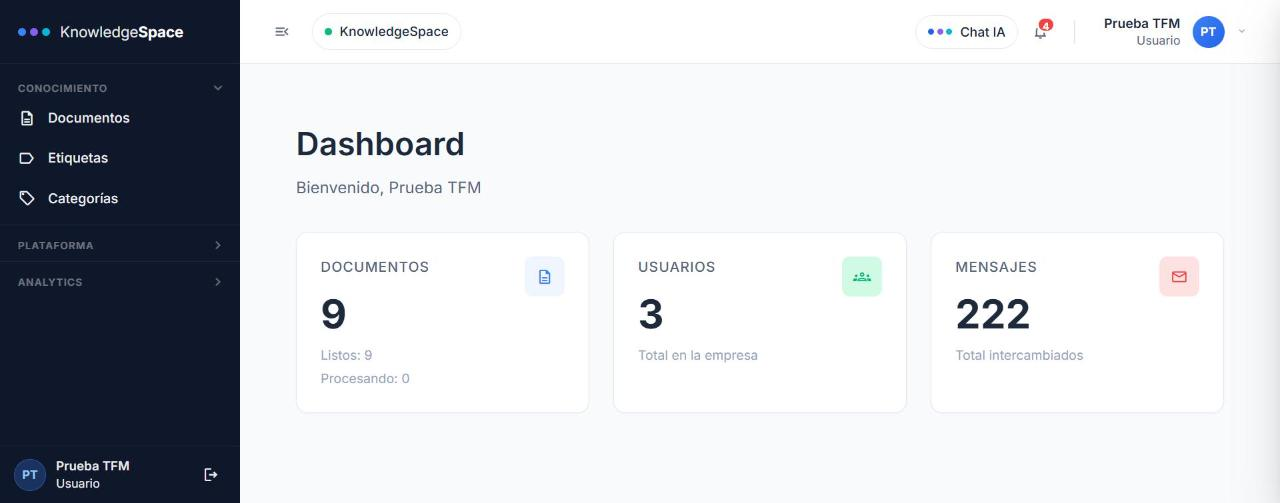
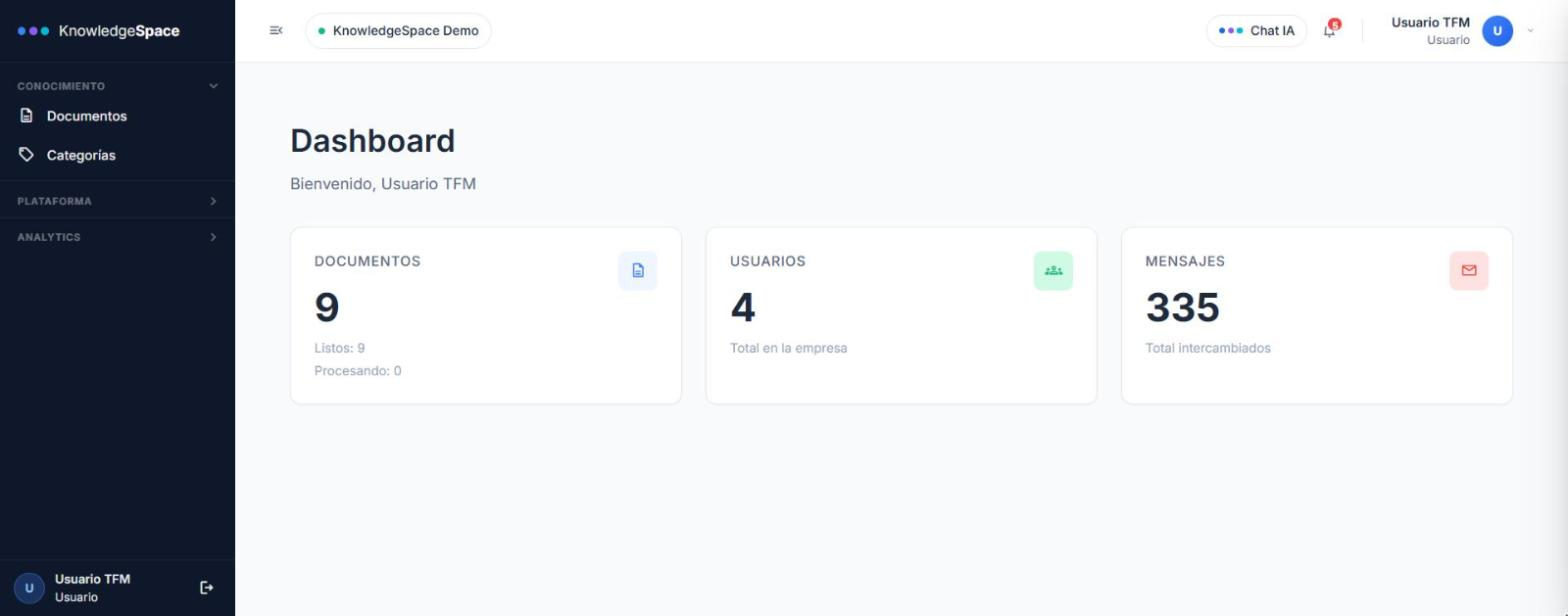
se adiciona archivos q estaban pendientes

diff --git a/src/app/features/chat/pages/chat-detail/chat-detail.component.html b/src/app/features/chat/pages/chat-detail/chat-detail.component.html
@@ -211,12 +211,14 @@
                             <!-- Un chip por fragmento: al pulsarlo se ve su
                                  texto, que es lo que permite comprobar la
                                  cita en el documento original. -->
+                            <!-- Una respuesta escrita a mano no tiene número de
+                                 fragmento: antes salía un «·» que no se entendía. -->
                             @for (f of grupo.fragmentos; track f.chunk_id || f.chunk_index) {
                               <button class="source-chunk"
                                       [class.is-open]="expandedSource() === f"
-                                      [title]="'Ver el fragmento ' + f.chunk_index"
+                                      [title]="f.chunk_index != null ? 'Ver el fragmento ' + f.chunk_index : 'Ver la respuesta escrita'"
                                       (click)="toggleSourcePreview(f)">
-                                {{ f.chunk_index ?? '·' }}
+                                {{ f.chunk_index ?? 'ver texto' }}
                               </button>
                             }
                           </div>
@@ -234,7 +236,7 @@
                     @for (f of grupo.fragmentos; track f.chunk_id || f.chunk_index) {
                       @if (expandedSource() === f) {
                         <div class="source-preview">
-                          <span class="source-preview-tag">Fragmento {{ f.chunk_index }}</span>
+                          <span class="source-preview-tag">{{ f.chunk_index != null ? 'Fragmento ' + f.chunk_index : 'Respuesta escrita' }}</span>
                           <p>{{ f.text }}</p>
                         </div>
                       }

diff --git a/src/app/features/chat/pages/chat-detail/chat-detail.latex.spec.ts b/src/app/features/chat/pages/chat-detail/chat-detail.latex.spec.ts
@@ -1,0 +1,27 @@
+import { describe, expect, it } from 'vitest';
+
+import { ChatDetailComponent } from './chat-detail.component';
+
+// El modelo copia las fórmulas en LaTeX porque así aparecen en los documentos.
+// Los comandos de espaciado (`\,`, `\;`…) no tienen nombre y se colaban
+// literales: la figura 3 de la memoria mostraba `cos \, θ`.
+const ctx = Object.create(ChatDetailComponent.prototype) as ChatDetailComponent;
+const formatear = (texto: string) => ctx.formatMessage(texto);
+
+describe('ChatDetailComponent · LaTeX en las respuestas', () => {
+  it('traduce la fórmula de la similitud coseno sin restos de LaTeX', () => {
+    const html = formatear('cos \\, \\theta = \\frac{x \\cdot y}{||x|| \\cdot ||y||}');
+    expect(html).toBe('cos θ = (x · y) / (‖x‖ · ‖y‖)');
+    expect(html).not.toContain('\\');
+  });
+
+  it('los espacios finos y medios se vuelven un espacio; el negativo desaparece', () => {
+    expect(formatear('a\\;b\\:c\\ d')).toBe('a b c d');
+    expect(formatear('x\\!y')).toBe('xy');
+    expect(formatear('a\\quad b')).toBe('a b');
+  });
+
+  it('no toca una barra que no es LaTeX: el texto sin comandos queda igual', () => {
+    expect(formatear('Hola, ¿qué tal?')).toBe('Hola, ¿qué tal?');
+  });
+});

diff --git a/src/app/features/chat/pages/chat-detail/chat-detail.component.ts b/src/app/features/chat/pages/chat-detail/chat-detail.component.ts
@@ -674,6 +674,12 @@ export class ChatDetailComponent implements OnInit, OnDestroy {
         // el argumento y pierde el comando. Va después de los casos concretos
         // para que aquellos tengan preferencia.
         .replace(/\\[a-zA-Z]+\s*\{([^{}]*)\}/g, '$1')
+        // Espaciado: `\,` `\;` `\:` `\ ` son espacios finos y `\!` uno
+        // negativo. No tienen nombre, así que la regla de símbolos no los
+        // veía y se leía `cos \, θ` (visto en la figura 3 de la memoria).
+        .replace(/\\!/g, '')
+        .replace(/\s*\\[,;: ]\s*/g, ' ')
+        .replace(/\s*\\q?quad\b\s*/g, ' ')
         // Símbolos con nombre.
         .replace(/\\([a-zA-Z]+)/g, (completo, nombre) => SIMBOLOS[nombre] ?? nombre)
         // Dobles barras de la norma: `||x||` → `‖x‖`

diff --git a/src/app/features/assistants/pages/assistant-form/assistant-form.component.ts b/src/app/features/assistants/pages/assistant-form/assistant-form.component.ts
@@ -33,7 +33,8 @@ export class AssistantFormComponent implements OnInit {
   error: string | null = null;
 
   readonly availableModels = MODELS;
-  readonly avatarPresets   = ['🤖', '🧠', '💼', '📚', '🎯', '👔', '⚙', '🔬', '🌐', '💡'];
+  readonly avatarPresets   = ['🤖', '🧠', '💼', '📚', '🎯', '👔', '⚙', '🔬', '🌐', '💡',
+                              '🎓', '🏫', '📘', '💻', '📊'];
 
   name         = '';
   description  = '';

diff --git a/CHANGELOG.md b/CHANGELOG.md
@@ -10,6 +10,101 @@ backend.
 
 ---
 
+## 2026-11-07
+
+### Memoria
+
+- **Figura 2 (4.1) repetida** con la cuenta de rol usuario: el menú ya no
+  muestra «Etiquetas» ni la sección Administración. Con ella, las cuatro
+  figuras de la interfaz que usa la memoria están al día. 59 páginas.
+  Respaldo previo en `docs/Memoria_TFM_respaldo_2026-11-07.docx` (backend).
+- **Portada:** «Trabajo Fin de Máster · KnowledgeSpace · Plataforma
+  multiempresa de asistentes conversacionales basados en generación aumentada
+  por recuperación, con control y evaluación de alucinaciones · MID · EBIS
+  Business Techschool · Autor: Johan Sebastian Agudelo Sierra · Noviembre de
+  2026». Sin tutor. Índice actualizado.
+- **Anexo 10.1:** credenciales de los dos usuarios de demostración (las puso
+  el autor; comprobadas contra el backend local) y fuera los signos ⟨ ⟩. Solo
+  queda el marcador del enlace al vídeo.
+- La memoria queda en **60 páginas**, el máximo de la guía. Respaldo previo en
+  `docs/Memoria_TFM_respaldo_2026-11-07b.docx`.
+- **Estilo menos «de IA» en toda la memoria**, sin cambiar datos ni ideas: 127
+  sustituciones aplicadas con Word para conservar el formato. Rayas de 114 a 2
+  (las de dos celdas vacías de una tabla), «Conviene/Procede…» de 15 a 0,
+  «no es X, sino Y» de 12 a 0, «precisamente», «deliberadamente» y «la
+  distinción» a 0, «resulta» de 17 a 3. 68 palabras menos; sigue en 60
+  páginas. El capítulo 2 no se tocó. Respaldos: `..._2026-11-07c.docx` (antes
+  de empezar) y `..._2026-11-07d.docx` (tras el capítulo 5).
+- **«Ningún enrutador consulta la base de datos» (3.2 y 4.1) volvía a ser
+  falso**: `feedback.py` leía el asistente de un mensaje y `knowledge_gaps.py`
+  los nombres de asistente y documento directamente. Backend: las tres
+  lecturas pasan a sus repositorios (`MessageRepository.assistant_id_of_company`,
+  `AssistantRepository`/`DocumentRepository.get`), sin cambio de
+  comportamiento, y un test nuevo (`test_capas_sin_consultas_en_routers.py`)
+  falla si un enrutador vuelve a leer o escribir la base directamente, salvo
+  `setup.py`; comprobado contra el código anterior. Memoria: la frase nombra
+  esa excepción (el arranque inicial) y las cifras pasan de «doce» y
+  «diecisiete» a once y dieciséis, que cambiaron al retirar Etiquetas. 6.1 a
+  286 pruebas (Aislamiento 57). Corregido de paso un «y que» sobrante que dejó
+  la limpieza de estilo. 60 páginas; respaldo `..._2026-11-07e.docx`.
+- **Portada:** añadido el tutor, Alberto Ruiz Arteaga. 60 páginas; respaldo
+  `..._2026-11-07f.docx`.
+
+### Capturas del manual
+
+- **Todas repetidas** con la interfaz actual (17 de 18), en localhost: la 01
+  sin sesión; 03–13, 15, 16 y 18 con la cuenta de administrador de
+  demostración; 02 y 14 con la de rol usuario (en la 14, dos casillas marcadas
+  para enseñar la selección, sin borrar nada). En la **16 (Usuarios)** la
+  columna de correos va difuminada. Queda la **17 (Empresas)**, que solo ve un
+  superadministrador y que todavía muestra «Etiquetas» y empresas reales.
+
+---
+
+## 2026-11-05
+
+### Memoria
+
+- **6.1 al día:** 285 pruebas en el servidor (antes decía 266) y una frase con
+  las 80 de la interfaz; fila nueva en la tabla, *Manejo de errores, 19*
+  (`test_manejo_de_errores.py` 10 y `test_mensaje_documento_fallido.py` 9); la
+  tabla suma 285.
+- **3.2:** párrafo nuevo sobre el manejador común (503/500, mismo formato, sin
+  detalle técnico, traza en el registro) y el interceptor de la interfaz; el
+  motivo de un documento fallido se muestra traducido; fuera «una de las
+  treinta y cinco pruebas», cifra de cuando había 35.
+- Índice actualizado; 59 páginas en Word y en PDF, 24.819 palabras. Respaldo
+  previo en `docs/Memoria_TFM_respaldo_2026-11-05.docx` (backend, fuera de git).
+- **Figuras 3 y 4 y la de temperatura, repetidas**: las tres mostraban
+  «Etiquetas» en el menú, retirada el 2026-11-02, y la de temperatura, además,
+  a una cuenta de rol usuario editando un asistente, algo que hoy solo puede
+  hacer un administrador. Misma proporción que las anteriores: el maquetado no
+  cambia (59 páginas). Respaldo en `Memoria_TFM_respaldo_2026-11-05b.docx`.
+
+### Chat
+
+- **Restos de LaTeX:** los comandos de espaciado (`\,`, `\;`, `\:`, `\ `,
+  `\!`, `\quad`) no tienen nombre y se colaban literales: la figura 3 de la
+  memoria mostraba `cos \, θ`. Ahora se traducen a un espacio (el negativo
+  desaparece). Test: `chat-detail.latex.spec.ts` (3).
+- **Fuente «Respuesta directa»:** el chip mostraba un «·» que no se entendía;
+  ahora dice «ver texto», y el texto desplegado se titula «Respuesta escrita»
+  en vez de «Fragmento null».
+- Figura 3 de la memoria y captura 08 rehechas con los dos arreglos. Tests:
+  frontend 83.
+
+### Capturas del manual
+
+- **Catorce capturas de `doc/capturas/` repetidas** con la interfaz actual, en
+  localhost y con la cuenta de administrador: 03, 04, 05, 06, 07, 08, 09, 10,
+  11, 12, 13, 14, 15 y 18. Mismos nombres, así que el manual las toma sin
+  cambios. Las de Feedback, Notificaciones y Preguntas sin respuesta enseñan
+  lo de estos días (pregunta resaltada, selección al estilo Gmail, botón
+  Responder). Pendientes: la 02 (necesita la cuenta de rol usuario) y la 16 y
+  la 17 (muestran correos reales).
+
+---
+
 ## 2026-11-04
 
 ### Notificaciones

diff --git a/doc/trabajo/FEATURES.md b/doc/trabajo/FEATURES.md
@@ -151,7 +151,8 @@ trazabilidad de fuentes.
   hay endpoint para borrar un feedback).
 - **Dónde vive:** en un panel lateral (*drawer*) que abre el botón **Chat IA** de la cabecera, desde cualquier módulo. La página completa con lista de conversaciones (`ChatShellComponent`, `ChatListComponent`) se retiró por redundante. La ruta `/chat/:id` se conserva para los enlaces a una conversación concreta (por ejemplo, «Ver conversación» desde Feedback), y `/chat` a secas redirige al dashboard (2026-10-24; antes mostraba el layout en blanco).
 - **Chat Detail** (panel y `/chat/:id`): burbujas de mensaje usuario/asistente con formato markdown básico (negrita, cursiva, código), indicador de "escribiendo…", selector de **Asistente** activo cuando la empresa tiene más de uno configurado, sugerencias de inicio rápido en el estado vacío.
-  - **Fuentes citadas**: cada respuesta lista los documentos consultados con su score de relevancia, permite previsualizar el fragmento exacto usado por el modelo y descargar el documento original (vía URL firmada de S3).
+  - **Fuentes citadas**: cada respuesta lista los documentos consultados con su score de relevancia, permite previsualizar el fragmento exacto usado por el modelo y descargar el documento original (vía URL firmada de S3). Una respuesta escrita en Preguntas sin respuesta aparece como «Respuesta directa», sin descarga y con el chip «ver texto» (2026-11-05; antes mostraba un «·»).
+  - **Fórmulas**: el LaTeX que copia el modelo se traduce a texto legible (`\frac`, símbolos griegos, `\cdot`, normas…) sin motor de fórmulas. Desde el 2026-11-05 cubre también los comandos de espaciado (`\,`, `\;`, `\:`, `\!`, `\quad`), que se colaban literales (`cos \, θ`).
   - **Feedback**: pulgar arriba/abajo por respuesta, con panel de comentario opcional al marcar una respuesta como mejorable (`POST /v1/feedback/`); el estado de feedback ya emitido se restaura al recargar la conversación.
   - **Búsqueda** dentro de los mensajes de la conversación (con resaltado de coincidencias) y **paginación** de mensajes largos.
   - **Streaming** (2026-10-24): la respuesta llega token a token por *Server-Sent Events* (`POST /v1/chat/message/stream`), con un cursor parpadeante al final del texto mientras se sigue escribiendo. `ChatService.sendMessageStream` lee el progreso de descarga de `HttpClient` (no `EventSource`, que solo hace GET) y parsea las líneas SSE a mano, reconstruyendo eventos que puedan llegar partidos entre dos trozos de red. No reduce el tiempo total de la consulta —el RAG hace el mismo trabajo—, reduce la espera hasta el primer token. Copiar, feedback y costo quedan ocultos en la burbuja hasta que la respuesta termina. La ruta síncrona (`sendMessage` / `POST /v1/chat/message`) se conserva sin usarse desde la UI.

diff --git a/README.md b/README.md
@@ -248,5 +248,4 @@ Angular sustituye automáticamente el archivo según la configuración de build 
 - [`CHANGELOG.md`](CHANGELOG.md) — lo hecho cada día, en los dos repositorios
 - [Manejo de errores](https://github.com/jsagudelodev/knowledgespace-tfm-backend/blob/main/docs/TFM/MANEJO_ERRORES.md) — del backend a la pantalla, en los dos repositorios (`docs/TFM/MANEJO_ERRORES.md` del backend)
 - [`doc/trabajo/FEATURES.md`](doc/trabajo/FEATURES.md) — inventario de funcionalidades
-- [`doc/trabajo/BITACORA.md`](doc/trabajo/BITACORA.md) — diario de trabajo, con decisiones y pendientes
 - [`doc/CLAUDE.md`](doc/CLAUDE.md) — guía para Claude Code al trabajar en este repositorio
